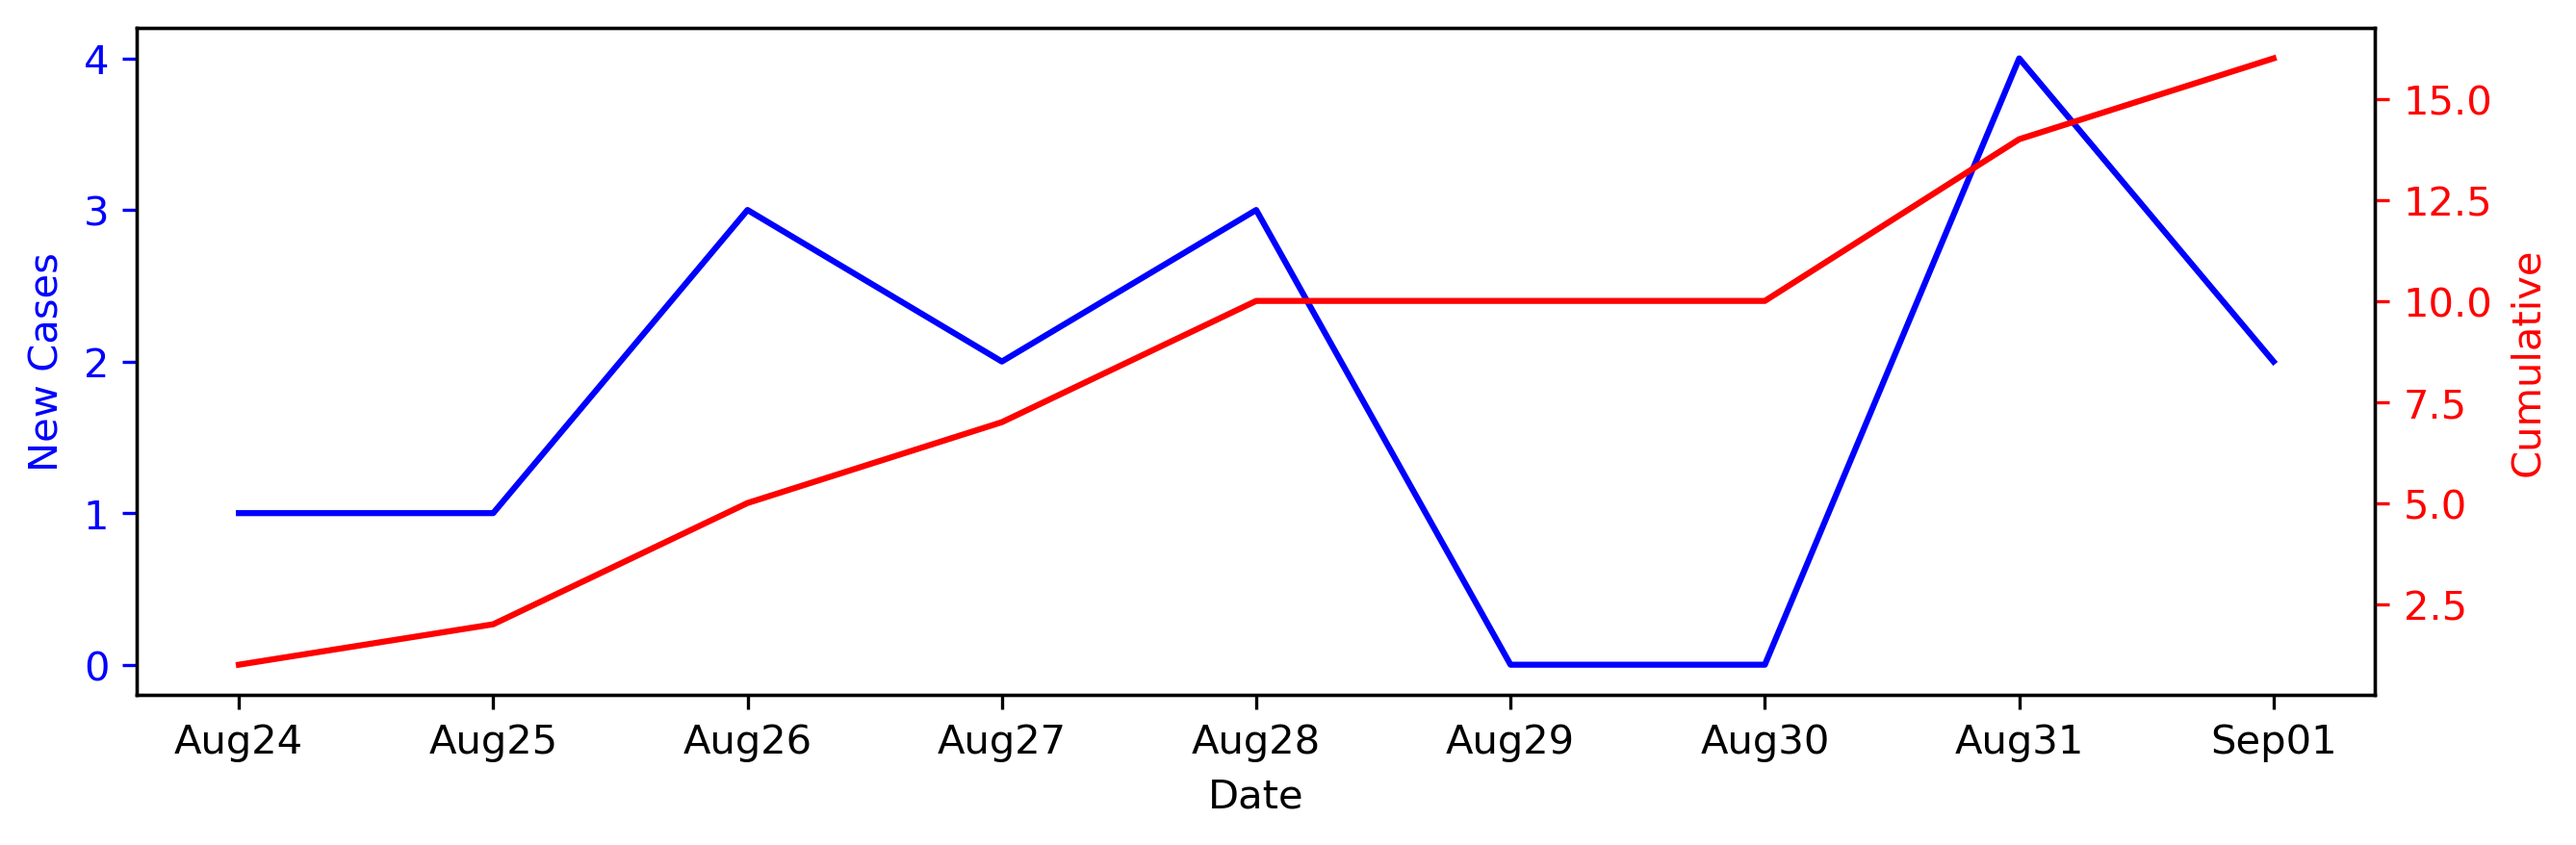
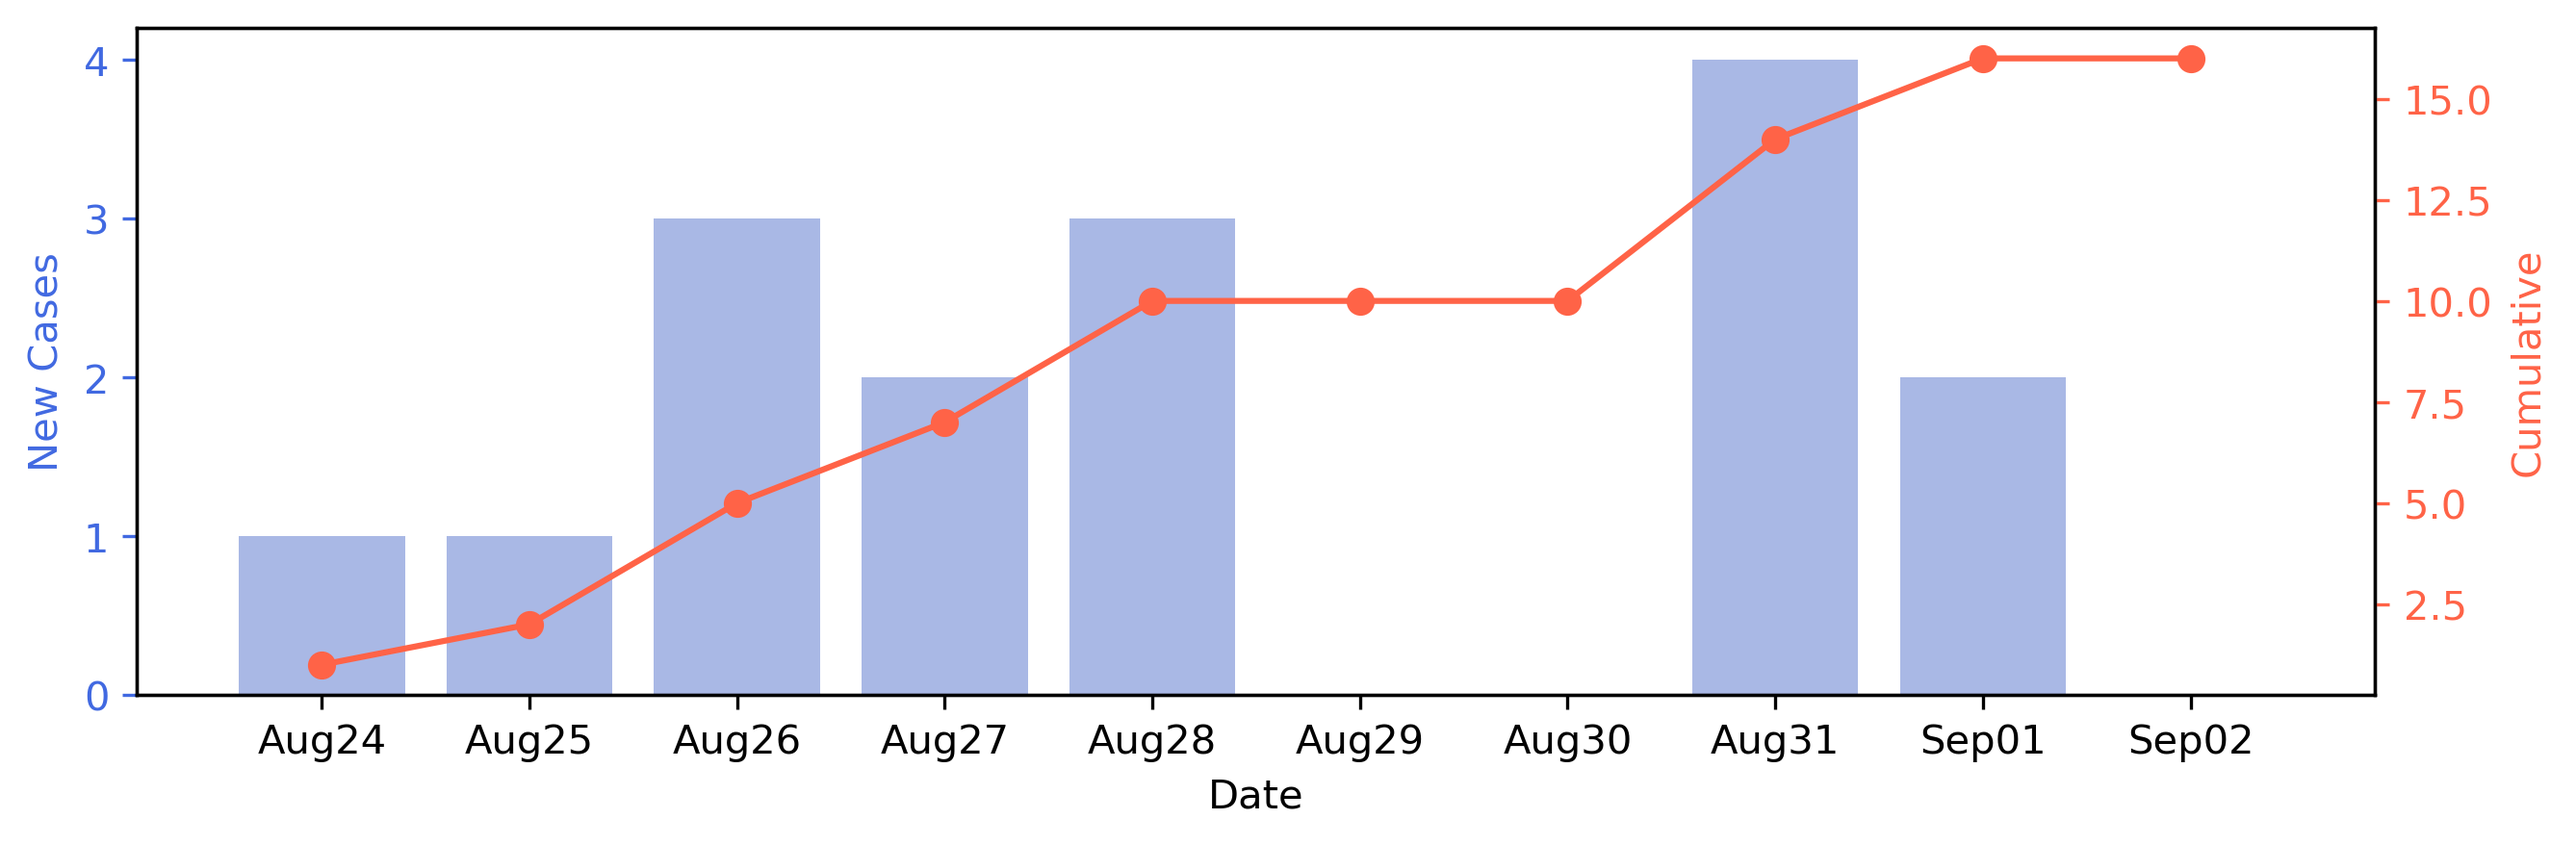
switch to bar plot for new cases, change colors

diff --git a/index.html b/index.html
@@ -21,6 +21,7 @@
     <div class="row">
       <div class="col-md-6 offset-md-3">
         <h2>Source</h2>
+        <blockquote class="twitter-tweet"><p lang="en" dir="ltr">No new cases of COVID-19 have been confirmed to the Rensselaer County Health Department, it was reported on Wednesday.<br>Wednesday comes one week after no new cases were confirmed on August 23. Before that, county had last reported no new cases on July 13: <a href="https://t.co/fqusrtwPGl">https://t.co/fqusrtwPGl</a></p>&mdash; RensselaerCo.Exec (@RenscoExecutive) <a href="https://twitter.com/RenscoExecutive/status/1301243888703856641?ref_src=twsrc%5Etfw">September 2, 2020</a></blockquote> <script async src="https://platform.twitter.com/widgets.js" charset="utf-8"></script>
         <blockquote class="twitter-tweet"><p lang="en" dir="ltr">Two new cases of COVID-19 (coronavirus) have been confirmed to the Rensselaer County Health Department, it was announced.<br>The two new cases bring the total number of confirmed cases to 885. There are now 40 active cases in the county: <a href="https://t.co/fqusrtwPGl">https://t.co/fqusrtwPGl</a></p>&mdash; RensselaerCo.Exec (@RenscoExecutive) <a href="https://twitter.com/RenscoExecutive/status/1300868028167524352?ref_src=twsrc%5Etfw">September 1, 2020</a></blockquote> <script async src="https://platform.twitter.com/widgets.js" charset="utf-8"></script>
         <blockquote class="twitter-tweet"><p lang="en" dir="ltr">Four new cases of COVID-19 have been confirmed to the Rensselaer County Health Department on Monday.<br>Along with new cases, county also announced death of 66-year-old man from Troy Center for Rehabilitation and Nursing: <a href="https://t.co/fqusrtwPGl">https://t.co/fqusrtwPGl</a> (1/2)</p>&mdash; RensselaerCo.Exec (@RenscoExecutive) <a href="https://twitter.com/RenscoExecutive/status/1300534211988926465?ref_src=twsrc%5Etfw">August 31, 2020</a></blockquote> <script async src="https://platform.twitter.com/widgets.js" charset="utf-8"></script>
         <blockquote class="twitter-tweet"><p lang="en" dir="ltr">Three new cases of COVID-19 (coronavirus) have been confirmed to the Rensselaer County Health Department, it was announced Friday.<br>The new cases bring the total number of confirmed cases to 872. There are now 47 active cases in the county. <a href="https://t.co/0c6AHpebZo">pic.twitter.com/0c6AHpebZo</a></p>&mdash; RensselaerCo.Exec (@RenscoExecutive) <a href="https://twitter.com/RenscoExecutive/status/1299433369009348614?ref_src=twsrc%5Etfw">August 28, 2020</a></blockquote> <script async src="https://platform.twitter.com/widgets.js" charset="utf-8"></script>

diff --git a/plots.py b/plots.py
@@ -1,19 +1,19 @@
 import pandas as pd
 import numpy as np
 import matplotlib.pyplot as plt
+import seaborn as sns
 
 df = pd.read_csv('cases.csv')
 
 plt.figure(figsize=(10,3))
-plt.plot(df['date'], df['new-cases'], 'b')
+sns.barplot('date', 'new-cases', data=df, color='royalblue', alpha=0.5)
 plt.xlabel('Date')
-plt.ylabel('New Cases', color='b')
-plt.tick_params('y', colors='b')
+plt.ylabel('New Cases', color='royalblue')
+plt.tick_params('y', colors='royalblue')
 
 ax = plt.twinx()
-ax.plot(df['date'], np.cumsum(df['new-cases']), 'r')
-ax.set_ylabel('Cumulative', color='r')
-ax.tick_params(colors='r')
-ax.tick_params(colors='r')
+ax.plot(df['date'], np.cumsum(df['new-cases']), 'tomato', marker='o')
+ax.set_ylabel('Cumulative', color='tomato')
+ax.tick_params(colors='tomato')
+ax.tick_params(colors='tomato')
 plt.savefig('cases.png', dpi=300, bbox_inches='tight')
-plt.show()
